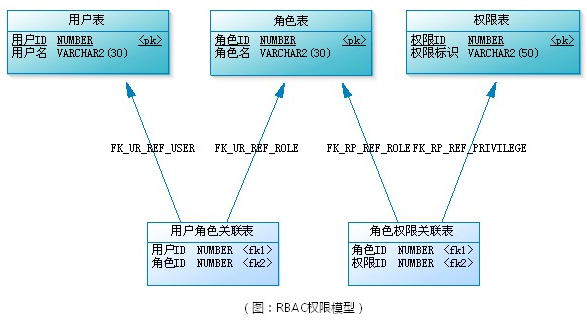
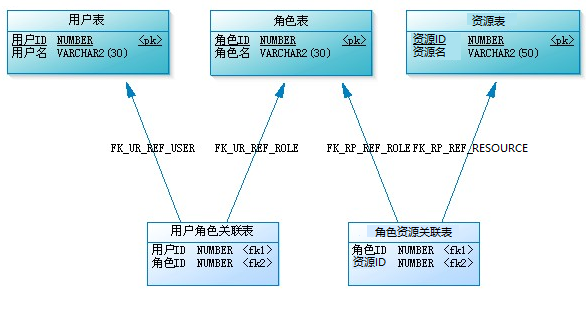
2018-09-17

diff --git a/server/src/main/kotlin/org/authx/server/dao/CustomAuthenticationManager.kt b/server/src/main/kotlin/org/authx/server/dao/CustomAuthenticationManager.kt
@@ -1,40 +1,43 @@
 package org.authx.server.dao
 
+import org.apache.commons.logging.LogFactory
 import org.authx.common.model.CustomUser
+import org.springframework.security.authentication.AuthenticationManager
 import org.springframework.security.authentication.BadCredentialsException
 import org.springframework.security.authentication.UsernamePasswordAuthenticationToken
-import org.springframework.security.authentication.dao.AbstractUserDetailsAuthenticationProvider
+import org.springframework.security.core.Authentication
+import org.springframework.security.core.SpringSecurityMessageSource
 import org.springframework.security.core.authority.SimpleGrantedAuthority
-import org.springframework.security.core.userdetails.UserDetails
 import org.springframework.security.core.userdetails.UsernameNotFoundException
 import org.springframework.security.crypto.password.PasswordEncoder
 import org.springframework.security.oauth2.common.exceptions.OAuth2Exception
-import org.springframework.stereotype.Repository
 import javax.validation.Validation
 
 
-@Repository
-class CustomUserDetailsAuthenticationProvider(val passwordEncoder: PasswordEncoder) : AbstractUserDetailsAuthenticationProvider() {
-    override fun retrieveUser(username: String, authentication: UsernamePasswordAuthenticationToken): UserDetails {
+class CustomAuthenticationManager(val passwordEncoder: PasswordEncoder) : AuthenticationManager {
+    val log = LogFactory.getLog(this.javaClass)
+    val messages = SpringSecurityMessageSource.getAccessor()
+
+    override fun authenticate(authentication: Authentication): Authentication {
         val auth = authentication.toCustom()
         val userDetails = loadUserDetails(auth)
         val presentedPassword = auth.password
         val encodedPassword = userDetails.password
 
         if (!passwordEncoder.matches(presentedPassword, encodedPassword)) {
-            logger.debug("Authentication failed: password does not match stored value")
+            log.debug("Authentication failed: password does not match stored value")
             throw BadCredentialsException(
                     messages.getMessage("AbstractUserDetailsAuthenticationProvider.badCredentials", "Bad credentials"))
         }
-        return userDetails.copy(password = null)
+        return UsernamePasswordAuthenticationToken(
+                userDetails.copy(password = null), null,
+                userDetails.authorities)
     }
 
-    override fun additionalAuthenticationChecks(userDetails: UserDetails, authentication: UsernamePasswordAuthenticationToken) {}
-
-    private fun UsernamePasswordAuthenticationToken.toCustom(): CustomUser.Login {
+    private fun Authentication.toCustom(): CustomUser.Login {
         val details = this.details as LinkedHashMap<String, Any>
         val auth = CustomUser.Login(
-                this.principal.toString(),
+                this.name,
                 this.credentials.toString(),
                 details.get("realm").toString(),
                 details.get("domain").toString(),
@@ -57,9 +60,10 @@ class CustomUserDetailsAuthenticationProvider(val passwordEncoder: PasswordEncod
     private fun loadUserDetails(authentication: CustomUser.Login): CustomUser.Load =
             if ("user".equals(authentication.username)) {
                 CustomUser.Load(username = authentication.username, password = passwordEncoder.encode("123456"), authorities = listOf(SimpleGrantedAuthority("ROLE_USER")), email = "163@qq.com", realm = "CP")
-            }else if ("admin".equals(authentication.username)) {
+            } else if ("admin".equals(authentication.username)) {
                 CustomUser.Load(username = authentication.username, password = passwordEncoder.encode("123456"), authorities = listOf(SimpleGrantedAuthority("ROLE_USER")), email = "163@qq.com", realm = "CP")
             } else {
                 throw UsernameNotFoundException(authentication.toString())
             }
+
 }

diff --git a/account/src/main/kotlin/org/authx/account/App.kt b/account/src/main/kotlin/org/authx/account/App.kt
@@ -1,8 +1,8 @@
 package org.authx.account
 
-import org.authx.account.config.SpringContextHolder
+import com.fasterxml.jackson.databind.ObjectMapper
+import org.apache.commons.logging.LogFactory
 import org.authx.account.controller.OauthClient
-import org.authx.account.service.UserServiceI
 import org.authx.common.model.CurrentUser
 import org.authx.common.util.Extensions.openUrl
 import org.springframework.boot.SpringApplication
@@ -29,7 +29,9 @@ fun main(args: Array<String>) {
 
 @SpringBootApplication(exclude = [UserDetailsServiceAutoConfiguration::class]) //去掉默认设置的user & password
 @EnableFeignClients(clients = [OauthClient::class])
-class AccountConfig {
+class AccountConfig(val mapper: ObjectMapper) {
+    val log = LogFactory.getLog(this.javaClass)
+
     @Bean
     fun passwordEncoder(): PasswordEncoder = BCryptPasswordEncoder()
 
@@ -39,15 +41,15 @@ class AccountConfig {
             argumentResolvers.add(object : HandlerMethodArgumentResolver {
                 override fun supportsParameter(parameter: MethodParameter): Boolean = (CurrentUser::class.java == parameter.parameterType)
 
-                override fun resolveArgument(parameter: MethodParameter, mavContainer: ModelAndViewContainer?, webRequest: NativeWebRequest, binderFactory: WebDataBinderFactory?): CurrentUser{
+                override fun resolveArgument(parameter: MethodParameter, mavContainer: ModelAndViewContainer?, webRequest: NativeWebRequest, binderFactory: WebDataBinderFactory?): CurrentUser {
                     val result = resolveArgument(webRequest.getNativeRequest(HttpServletRequest::class.java)!!)
-                    val service = SpringContextHolder.getBean(UserServiceI::class.java)
-                    println("================${service.getRole()}")
                     return result
                 }
 
                 private fun resolveArgument(request: HttpServletRequest): CurrentUser {
-                    val map = (request.getUserPrincipal() as OAuth2Authentication).userAuthentication.details as Map<String, Any>
+                    val authentication = request.getUserPrincipal() as OAuth2Authentication
+                    log.warn("authentication json : ${mapper.writeValueAsString(authentication)}")
+                    val map = authentication.userAuthentication.details as Map<String, Any>
                     return CurrentUser(map.get("username") as String,
                             map.get("authorities") as List<GrantedAuthority>,
                             map.get("enabled") as Boolean,

diff --git a/server/src/main/kotlin/org/authx/server/config/OAuth2Config.kt b/server/src/main/kotlin/org/authx/server/config/OAuth2Config.kt
@@ -1,7 +1,9 @@
 package org.authx.server.config
 
+import org.authx.server.dao.CustomAuthenticationManager
+import org.springframework.context.annotation.Bean
 import org.springframework.context.annotation.Configuration
-import org.springframework.security.config.annotation.authentication.configuration.AuthenticationConfiguration
+import org.springframework.context.annotation.Primary
 import org.springframework.security.crypto.password.PasswordEncoder
 import org.springframework.security.oauth2.config.annotation.configurers.ClientDetailsServiceConfigurer
 import org.springframework.security.oauth2.config.annotation.web.configuration.AuthorizationServerConfigurerAdapter
@@ -12,7 +14,7 @@ import org.springframework.security.oauth2.config.annotation.web.configurers.Aut
 
 @Configuration
 @EnableAuthorizationServer
-class OAuth2Config(val passwordEncoder: PasswordEncoder, val authenticationConfiguration: AuthenticationConfiguration) : AuthorizationServerConfigurerAdapter() {
+class OAuth2Config(val passwordEncoder: PasswordEncoder) : AuthorizationServerConfigurerAdapter() {
     override fun configure(security: AuthorizationServerSecurityConfigurer) {
         security
                 .tokenKeyAccess("permitAll()") //允许访问
@@ -32,6 +34,10 @@ class OAuth2Config(val passwordEncoder: PasswordEncoder, val authenticationConfi
     }
 
     override fun configure(endpoints: AuthorizationServerEndpointsConfigurer) {
-        endpoints.authenticationManager(authenticationConfiguration.authenticationManager)
+        endpoints.authenticationManager(authenticationManager())
     }
+
+    @Bean
+    @Primary
+    fun authenticationManager() = CustomAuthenticationManager(passwordEncoder)
 }

diff --git a/server/src/main/kotlin/org/authx/server/controller/UserInfoController.kt b/server/src/main/kotlin/org/authx/server/controller/UserInfoController.kt
@@ -1,6 +1,5 @@
 package org.authx.server.controller
 
-import org.apache.commons.logging.LogFactory
 import org.authx.common.model.CustomUser
 import org.springframework.security.access.prepost.PreAuthorize
 import org.springframework.security.core.annotation.AuthenticationPrincipal
@@ -11,11 +10,10 @@ import springfox.documentation.annotations.ApiIgnore
 
 @RestController
 class UserInfoController {
-    val log = LogFactory.getLog(this.javaClass)
     @RequestMapping(value = ["/userInfo"], method = [RequestMethod.GET])
     @PreAuthorize("#oauth2.hasScope('user_info')")
     fun getUser(@ApiIgnore @AuthenticationPrincipal user: CustomUser.Load?): CustomUser.Load {
-        if(user == null){
+        if (user == null) {
             throw RuntimeException("Please use the user's token, not client's token")
         }
         return user

diff --git a/common/src/test/kotlin/org/authx/common/Main.kt b/common/src/test/kotlin/org/authx/common/Main.kt
@@ -1,0 +1,7 @@
+package org.authx.common
+
+fun main(args: Array<String>) {
+    val path = "http://auth.mgt.com/api/v1/auth/user/current"
+    println(path.replace("/user/current",""))
+    println(path)
+}

diff --git a/docs/005-RBAC模型.md b/docs/005-RBAC模型.md
@@ -1,0 +1,66 @@
+---
+typora-root-url: images
+---
+
+
+
+# 1 什么是RBAC模型
+
+目的：判断用户能否操作资源
+表现：用户、角色、资源之间的连线
+
+![1536889025557](/1536889025557.png)
+
+- 用户：真实存在的个体（真人）
+
+- 角色
+
+  - 从业务的角度，对用户分组。比如：管理员、代理、会员、游客等；
+  - 从功能的角度，也可以对用户分组，比如：readOnly、write等
+
+- 资源 ：后端提供的接口、网页、图片、文件等，都是资源
+
+# 2 为什么使用RBAC模型
+
+> 尤其是角色。为什么要有角色？
+
+
+![rbac](/rbac.png)
+
+在整个模型里，角色的抽象层次最高：
+
+| 约束类型   | 释义                                               | 举例                           |
+| ---------- | -------------------------------------------------- | ------------------------------ |
+| 自由组合   | 一个人可以同时拥有任意个角色                       | 身兼多职                       |
+| 继承       | 拥有parent node，自动获得All children roles 的权限 | 中国家长                       |
+| 互斥       | 互斥的角色，一个用户只能拥有其中的一个             | 男、女                         |
+| 运行时互斥 | 给一个用户配置多个角色，但，运行时，只能激活一个   | QQ、360                        |
+| 限定个数   | 一个角色，只能授予有限的用户                       | 主席                           |
+| 按顺序演变 |                                                    | 婴儿、儿童、少年...            |
+| 运行时计算 |                                                    | 判断操作员是否资源持有者的上级 |
+
+# 3 组
+
+用户组，通常是组织结构，比如，XXX公司XXX部门XXX小组
+角色组，比如，平台服务商、租户、子账号（租户的管理员）、上级、直属上级、下级、直属下级、客户、游客等
+资源组，比如，图片、文档、URL等
+
+# 4 原则
+
+单向设置权限：`user --> role --> resource` 或 `user ⊇ role ⊇ resource`
+
+![1537156778800](/1537156778800.png)
+
+# 5 练习
+
+| 类别 | 示例                                                         |
+| ---- | ------------------------------------------------------------ |
+| 层级 | 论坛系统，超级管理员、普通管理员、版主等，上级拥有下级的所有权限 |
+| 角色 | 超市管理系统，收银员、开票员、仓管员等，用户之间的地位是平等的，分别对应不同的应用模块 |
+| 资源 | 博客系统，文章的增删改查等操作，都是资源                     |
+| 流程 | 公文系统，基层科员起草-->科长审批-->办公室校对-->局长签发。如果公文不在当前用户的环节，即使是局长也无权修改 |
+
+分析：
+
+- 层级和角色，都可以抽象为“角色”
+- 在流程中，不能把“公文”看做“资源”，节点才是

diff --git a/docs/006-simple-RBAC.md b/docs/006-simple-RBAC.md
@@ -1,0 +1,2 @@
+# 1 简介
+
